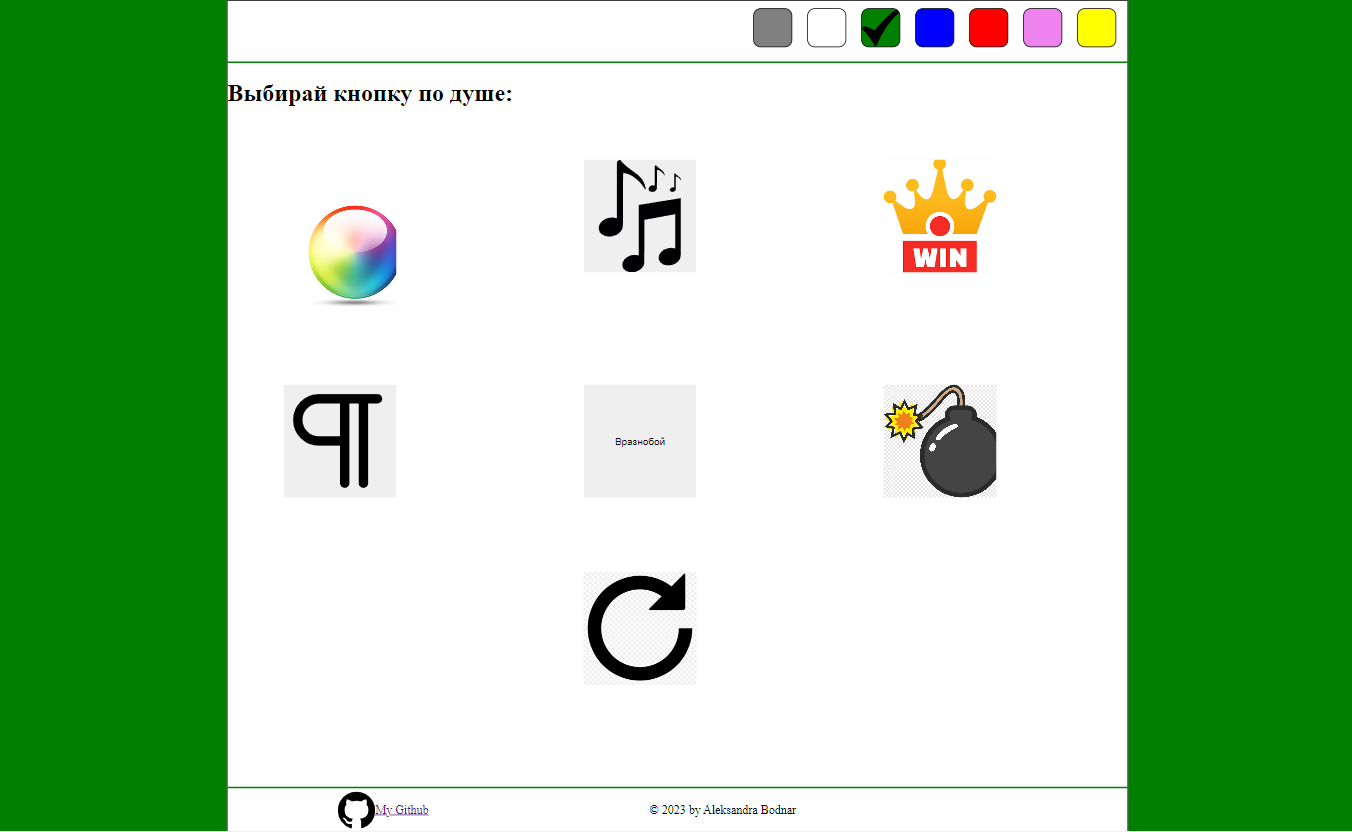
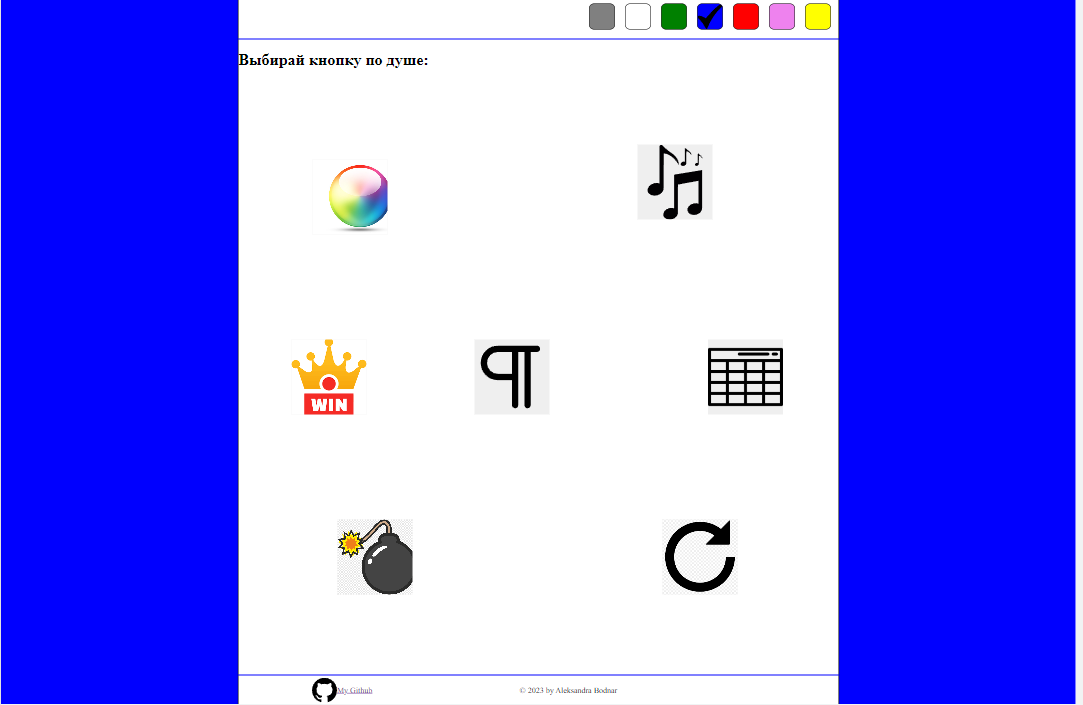
fix: change image for project2

diff --git a/style.css b/style.css
@@ -119,7 +119,7 @@ h3{
     background-color: none;
 }
 .image_graph {
-    background-image: url(img/project1.png);
+    background-image: url(img/project2.png);
 }
 .image_buttons{
     background-image: url(img/project1.png);
@@ -213,7 +213,6 @@ footer, .footer_github {
     margin: 0 20px 10px;
     padding: 10px;
 }
- 
 @media only screen and (max-width: 800px){
     body, main {
         padding: 0;
@@ -252,7 +251,6 @@ footer, .footer_github {
         margin-bottom: -1px;
     }
 }
-
 @media only screen and (min-width: 801px){
     .top_menu{
         padding: 0 20px;

diff --git a/index.html b/index.html
@@ -16,7 +16,7 @@
             <ul>
                 <li><a href="#section_about">About me</a></li>
                 <li><a href="#section_contacts">Contacts</a></li>
-                <li><a href="#section_skill">Skills</a></li>
+                <li><a href="#section_skills">Skills</a></li>
                 <li><a href="#section_codes">Codes</a></li>
                 <li><a href="#section_expirience">Projects</a></li>
                 <li><a href="#section_educate">Education</a></li>
